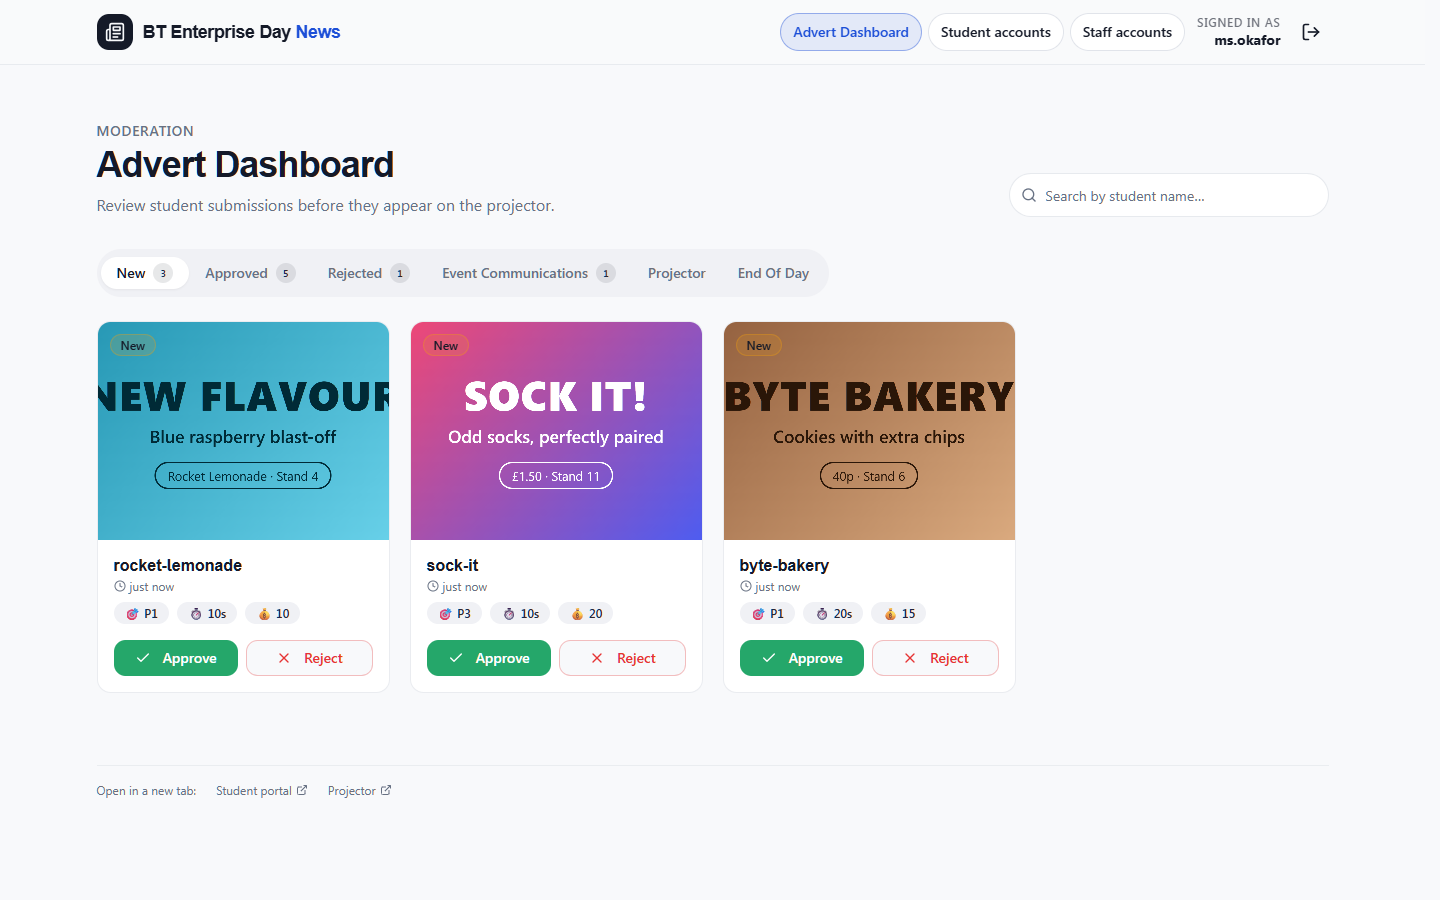
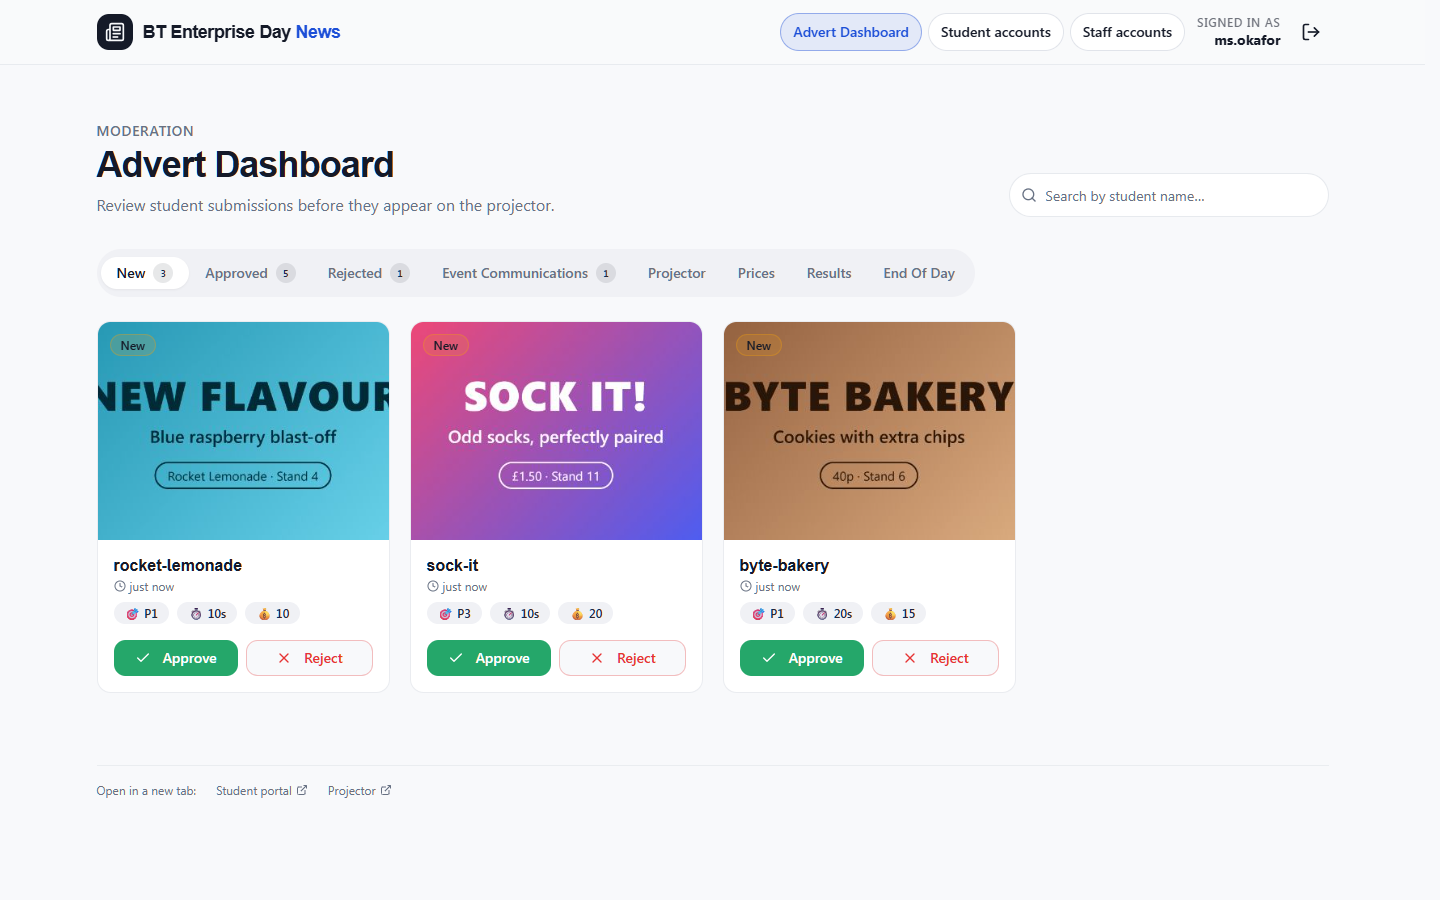
README screenshots: results, login slip, projector offline mode (refs #44)
Regenerated all screenshots after #37-#43 and added:
- the Results tab (spend, screen time, value),
- a simulated printed login slip (80 mm till paper, QR codes),
- the projector carrying on in OFFLINE MODE.
The student "Your uploads" shot now shows the team's results, and the
Student Account Dashboard shot shows team setup.

Screenshot script: wait for "networkidle2" rather than "networkidle0",
because pages now keep their live-updates stream open (#43).

diff --git a/README.md b/README.md
@@ -23,21 +23,27 @@ Students run companies with virtual event money: they **pay for priority** (how 
 
 All teams, adverts and names below are made up.
 
-**Student app** (on a phone): the upload page, choosing and paying for screen time, and the team's adverts with their review status.
+**Student app** (on a phone): the upload page, choosing and paying for screen time, and the team's adverts with their review status and results.
 
 | Upload | Prices | Your uploads |
 |---|---|---|
 | <img src="docs/screenshots/student-upload.png" alt="Student upload page on a phone" width="250"> | <img src="docs/screenshots/student-prices.png" alt="Tap-to-choose priority and duration with the total cost" width="250"> | <img src="docs/screenshots/student-uploads.png" alt="A team's uploads: waiting for approval, approved" width="250"> |
 
-**Staff app:** reviewing new uploads, the approved adverts in projector order, and managing team accounts.
+**Staff app:** reviewing new uploads, the approved adverts in projector order, each team's results, and setting up team accounts.
 
 ![Advert Dashboard: new uploads waiting for review](docs/screenshots/staff-new.png)
 ![Advert Dashboard: approved adverts in projector order, with a staff notice](docs/screenshots/staff-approved.png)
-![Student Account Dashboard](docs/screenshots/staff-students.png)
+![Results: each team's spend, screen time and value](docs/screenshots/staff-results.png)
+![Student Account Dashboard with team setup](docs/screenshots/staff-students.png)
 
-**Projector:** the big screen playing an approved advert.
+**Team login slip**, as printed on an 80 mm till printer, with QR codes to join the Wi-Fi and open the app:
+
+<img src="docs/screenshots/login-slip.png" alt="A printed team login slip with the team name, password and two QR codes" width="300">
+
+**Projector:** the big screen playing an approved advert, and carrying on in **OFFLINE MODE** when it can't reach the server.
 
 ![Projector showing a student advert](docs/screenshots/projector.png)
+![Projector in offline mode, still playing adverts](docs/screenshots/projector-offline.png)
 
 To regenerate them after UI changes, run `.\tools\screenshots\make-screenshots.ps1` (add `-Build` to use this checkout's code). It runs a separate demo copy of the apps with made-up data, so local and event data are never touched or shown.
 
